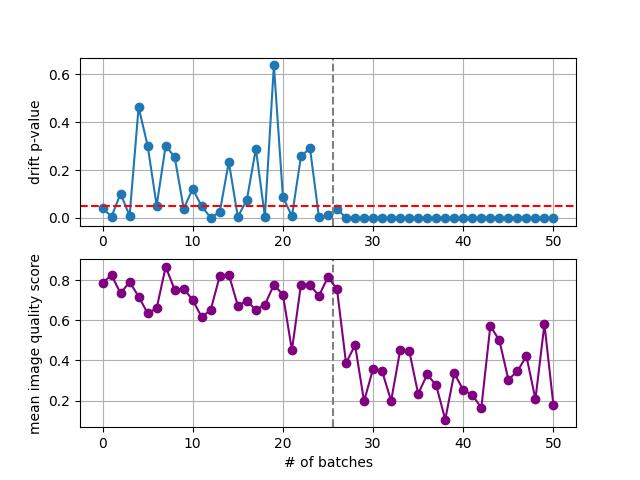
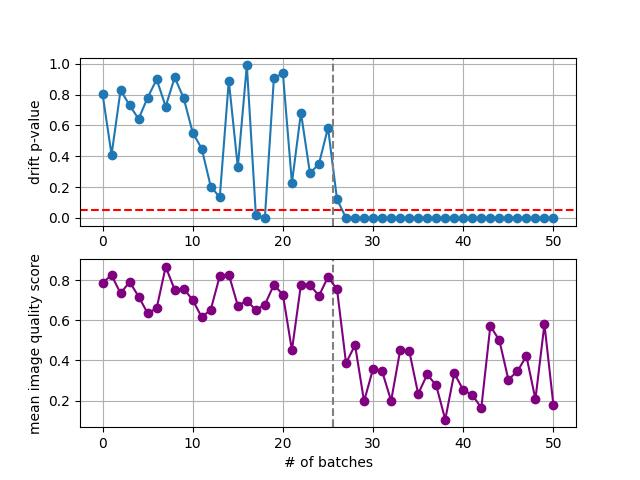
latest results

Changed region(s): [[0.0625, 0.125, 0.9062, 0.4688], [0.0625, 0.3125, 0.125, 0.4062], [0.0625, 0.1875, 0.125, 0.2188]]

diff --git a/test_arniqa_odld.py b/test_arniqa_odld.py
@@ -108,7 +108,7 @@ def load_arniqa_model():
 
     return model
 
-def load_odld(train_dts, ddetector_dts, num_epochs=10, detector="mmd", dataset="kadid10k", feat_ext_slice=-2):
+def load_odld(train_dts, ddetector_dts, num_epochs=100, detector="mmd", dataset="kadid10k", feat_ext_slice=-2):
 
     if not os.path.exists("odld_"+dataset+".pth"):
         model = resnet50(weights='DEFAULT').to(device)
@@ -164,7 +164,7 @@ if __name__ == "__main__":
 
 
     model_arniqa = load_arniqa_model().to(device)
-    model_odld, ddetect, feat_ext = load_odld(detector="ks",
+    model_odld, ddetect, feat_ext = load_odld(detector="mmd",
         train_dts=train, ddetector_dts=ddet, dataset=dataset, feat_ext_slice=-2
         )
 
